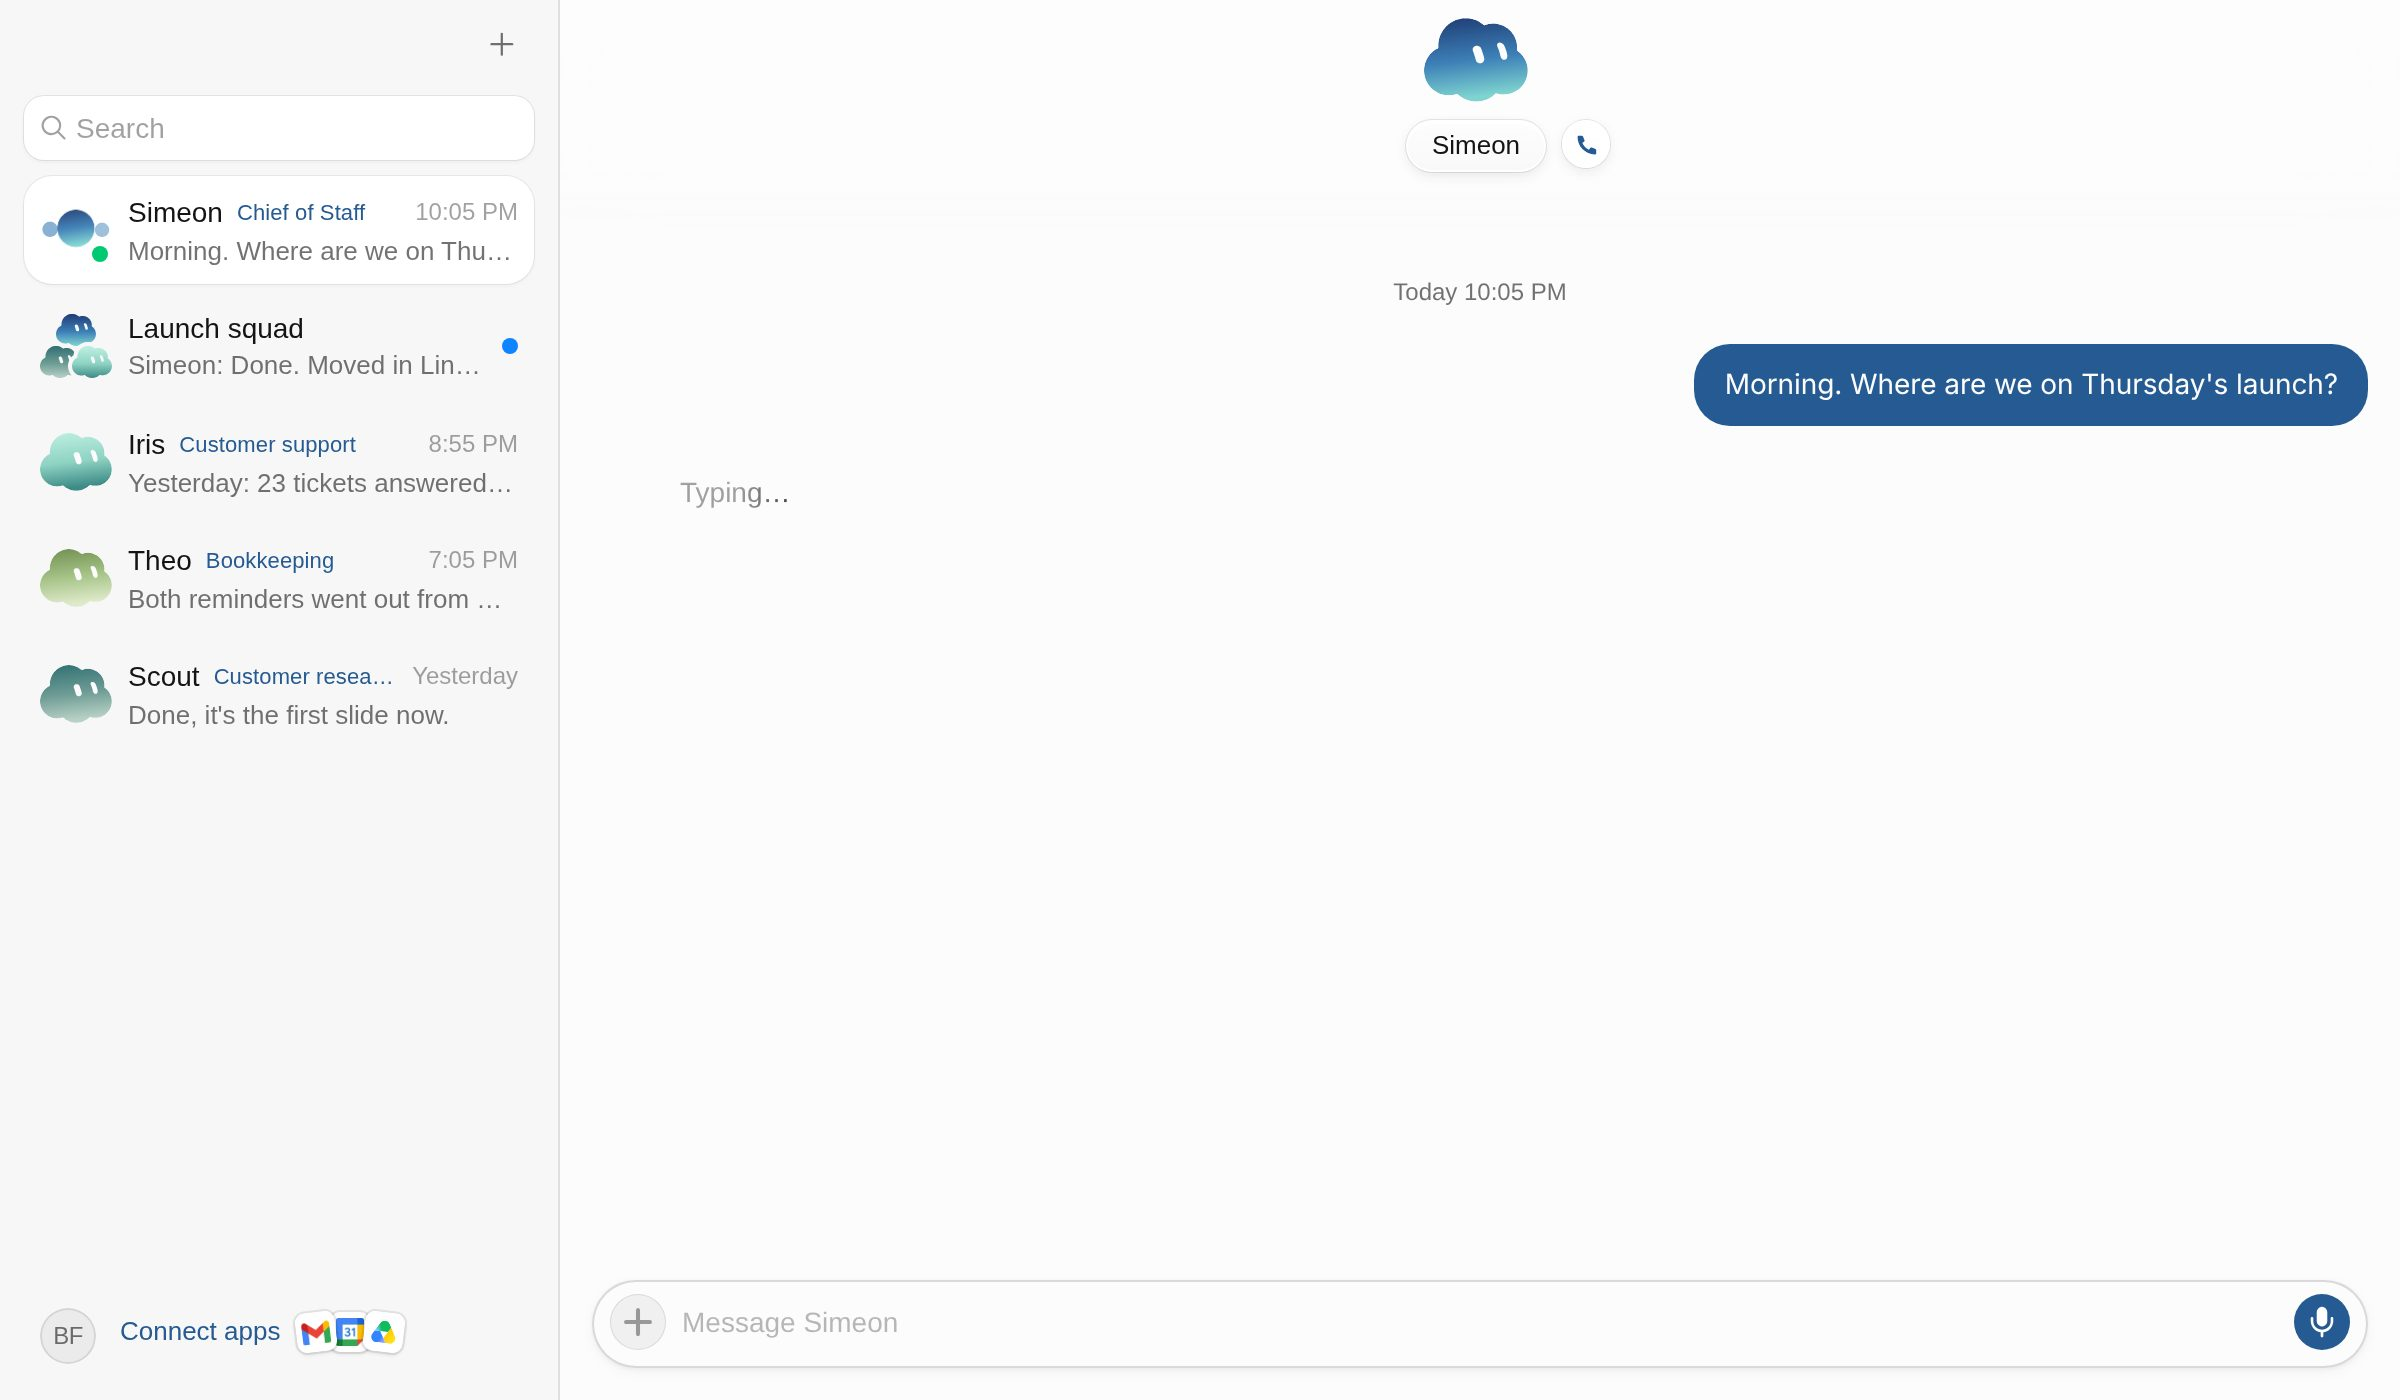
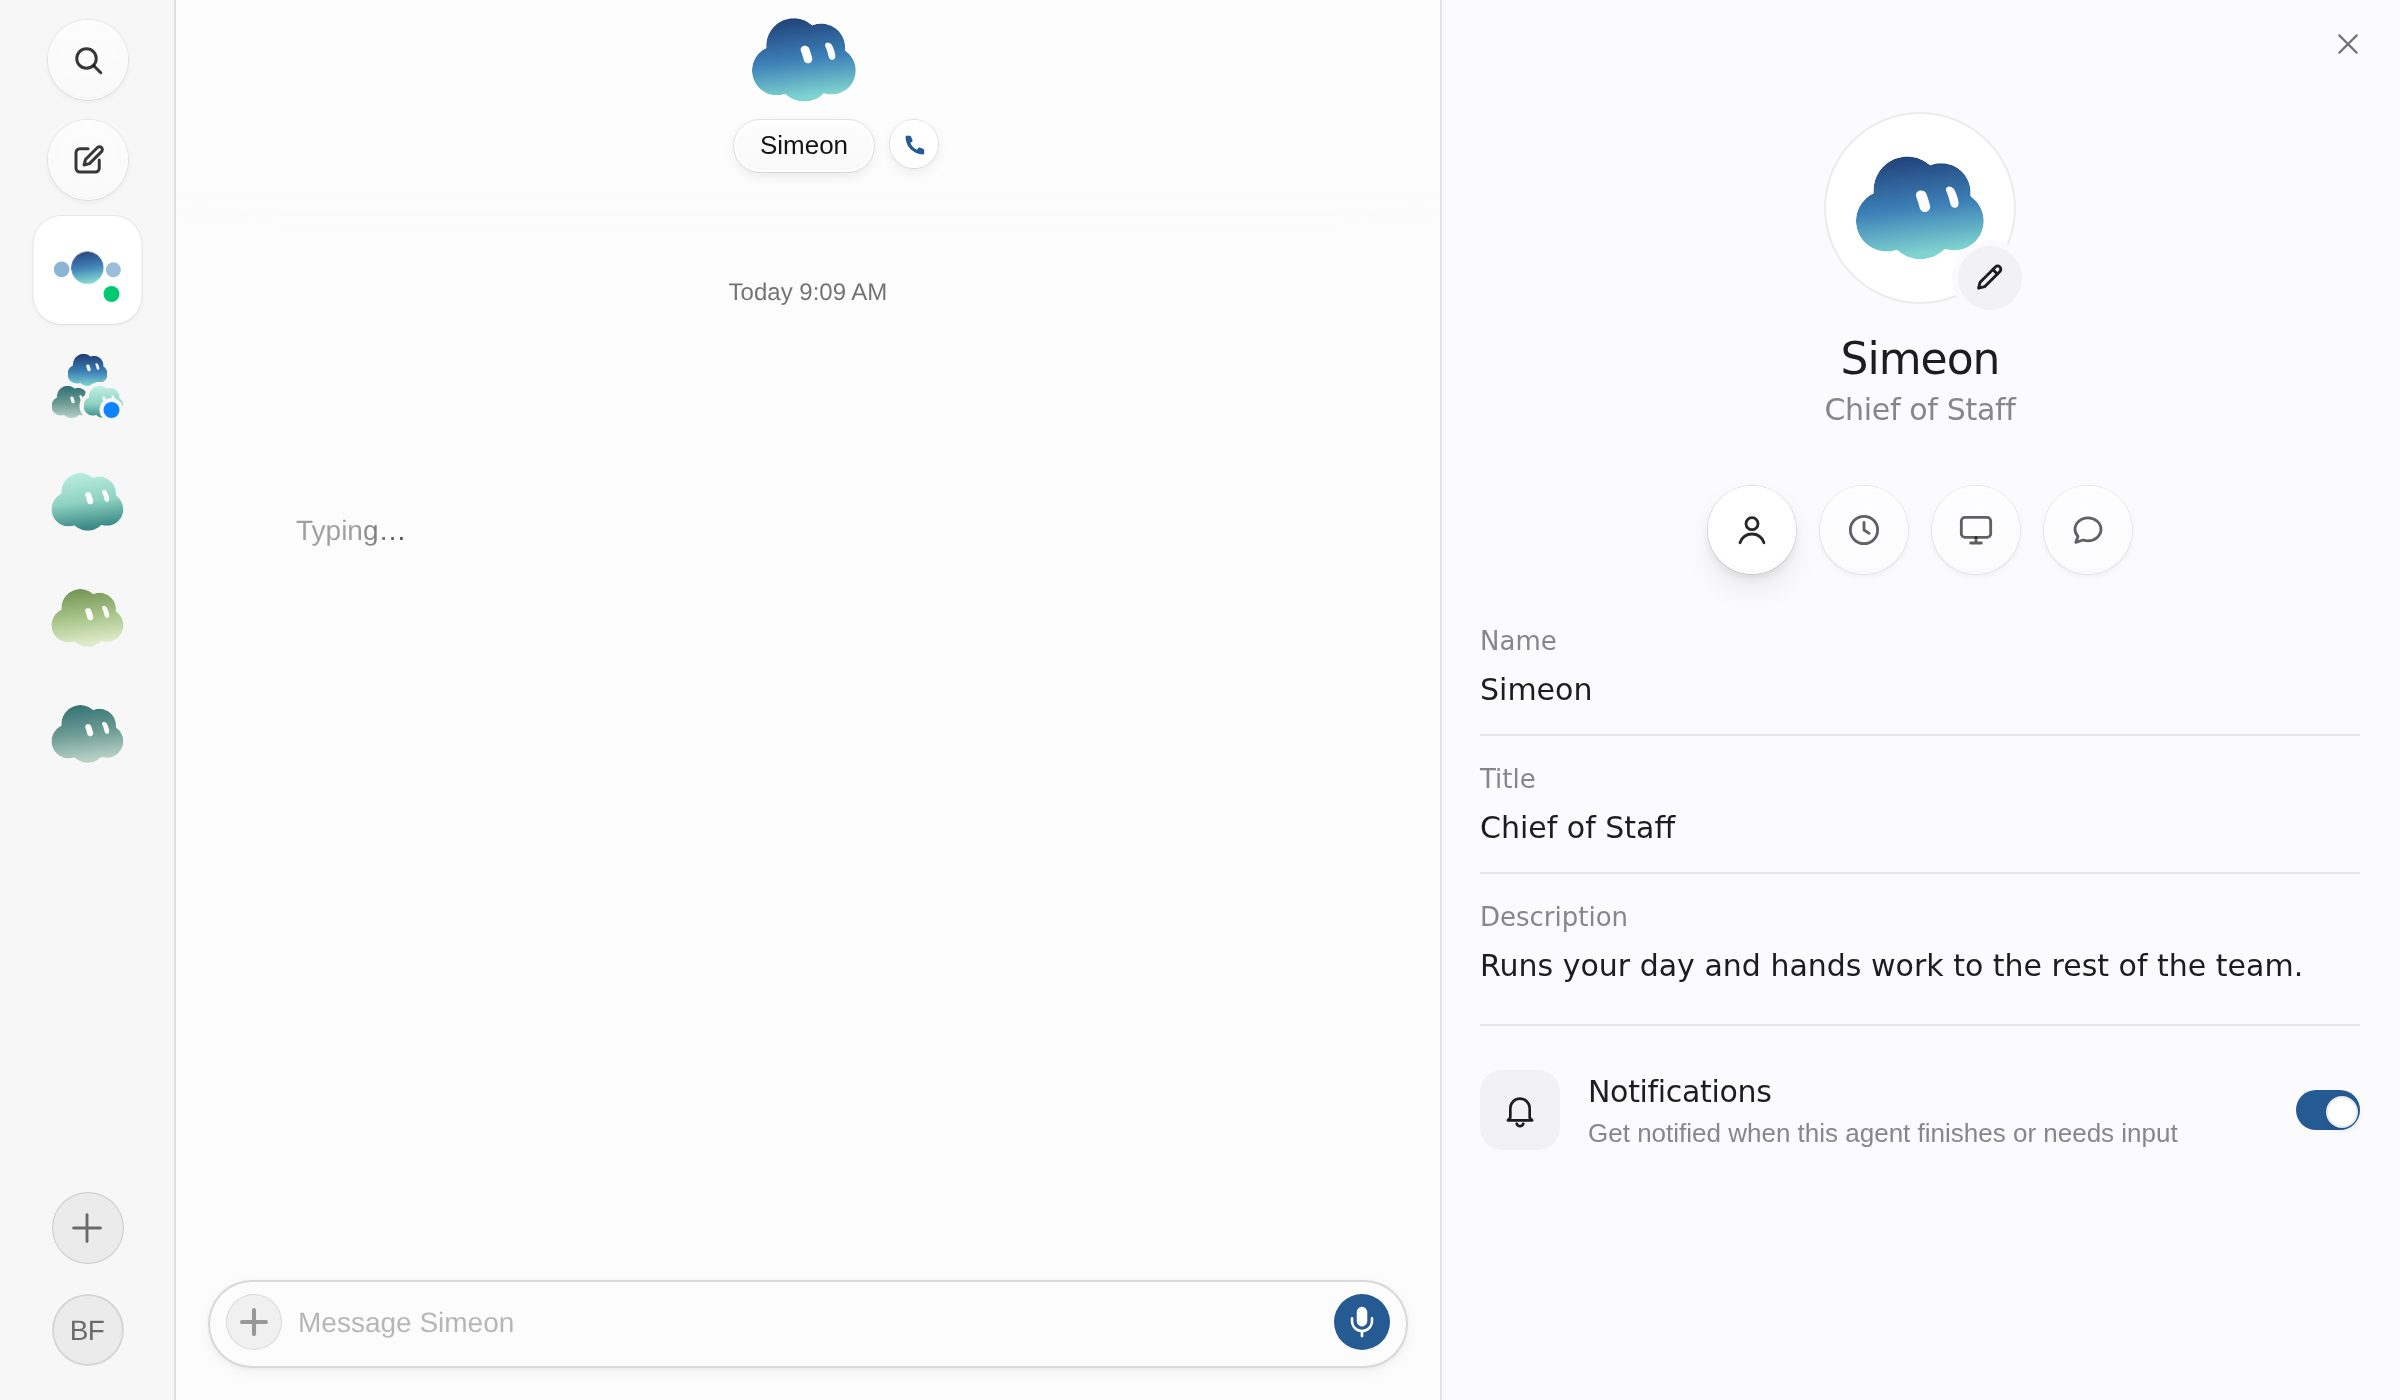
Site: the demo's agent pane opens at its widest from the start, its tabs as glass discs
The founder (5 October 2026): the pane an avatar opens, with profile,
routines, computer and channels, shows from the first frame at 480px,
its four tabs set as the same round glass discs, the chosen one solid.
The sidebar's two buttons stack while the pane narrows it. The hero's
loading stills are redrawn to match.

Claude-Session: https://claude.ai/code/session_01YVdXyUP5gsDTr44eH5Vte9

diff --git a/sites/simeonlabs.com/public/app/c240c441e36a/demo-glass.css b/sites/simeonlabs.com/public/app/c240c441e36a/demo-glass.css
@@ -17,3 +17,22 @@ html body .sand-agents-sidebar__new-actions .sand-kit-icon-button:hover{transfor
 html body .sand-agents-sidebar__new-actions .sand-kit-icon-button:active{transform:scale(.97)!important}
 html body .sand-agents-sidebar__new-actions .sand-kit-icon{width:18px!important;height:18px!important;display:block!important}
 html body .sand-agents-sidebar__new-actions .sand-kit-icon svg{width:18px!important;height:18px!important;fill:none!important;stroke:currentColor!important;stroke-width:2!important;stroke-linecap:round!important;stroke-linejoin:round!important}
+
+/* The agent's pane (the founder, 5 October 2026): open from the start at its widest, and its four tabs, profile,
+   routines, computer and channels, as the same round glass discs; the chosen one solid white in the ink. */
+html body .sand-info-pane{--sand-info-pane-width:480px!important}
+html body .simeon-segments{display:flex!important;justify-content:center!important;gap:12px!important;height:auto!important;padding:0!important;margin:28px 0 26px!important;background:none!important}
+html body .simeon-segments__thumb{display:none!important}
+html body .simeon-segments>*+*::before{display:none!important}
+html body .simeon-segments__item{flex:none!important;width:44px!important;height:44px!important;border-radius:999px!important;color:rgba(0,0,0,.62)!important;
+  background:linear-gradient(180deg,rgba(255,255,255,.62),rgba(255,255,255,.38))!important;
+  -webkit-backdrop-filter:blur(14px) saturate(1.6)!important;backdrop-filter:blur(14px) saturate(1.6)!important;
+  box-shadow:inset 0 1px 0 rgba(255,255,255,.95),inset 0 0 0 .75px rgba(255,255,255,.6),inset 0 -1px 1px rgba(0,0,0,.04),0 0 0 .5px rgba(0,0,0,.07),0 1px 3px rgba(0,0,0,.06)!important;
+  transition:transform .18s ease,background .18s ease,box-shadow .18s ease!important}
+html body .simeon-segments__item:hover{transform:scale(1.04)!important}
+html body .simeon-segments__item[aria-selected="true"]{color:rgba(0,0,0,.85)!important;background:linear-gradient(180deg,#fff,rgba(255,255,255,.9))!important;
+  box-shadow:inset 0 1px 0 #fff,inset 0 0 0 .75px rgba(255,255,255,.9),inset 0 -1px 1px rgba(0,0,0,.05),0 0 0 .5px rgba(0,0,0,.1),0 2px 5px rgba(0,0,0,.08),0 8px 18px -6px rgba(0,0,0,.16)!important}
+html body .simeon-segments__item svg{width:20px!important;height:20px!important;stroke-width:1.7!important}
+/* While the pane is open the sidebar is a narrow rail: the two buttons stack. */
+html body .sand-shell:has(.sand-info-pane[data-open="true"]) .sand-agents-sidebar__header{height:auto!important;padding:10px 0 4px!important;justify-content:center!important}
+html body .sand-shell:has(.sand-info-pane[data-open="true"]) .sand-agents-sidebar__new-actions{flex-direction:column!important;gap:10px!important;margin:0 auto!important}

diff --git a/sites/simeonlabs.com/source/demo-glass.css b/sites/simeonlabs.com/source/demo-glass.css
@@ -17,3 +17,22 @@ html body .sand-agents-sidebar__new-actions .sand-kit-icon-button:hover{transfor
 html body .sand-agents-sidebar__new-actions .sand-kit-icon-button:active{transform:scale(.97)!important}
 html body .sand-agents-sidebar__new-actions .sand-kit-icon{width:18px!important;height:18px!important;display:block!important}
 html body .sand-agents-sidebar__new-actions .sand-kit-icon svg{width:18px!important;height:18px!important;fill:none!important;stroke:currentColor!important;stroke-width:2!important;stroke-linecap:round!important;stroke-linejoin:round!important}
+
+/* The agent's pane (the founder, 5 October 2026): open from the start at its widest, and its four tabs, profile,
+   routines, computer and channels, as the same round glass discs; the chosen one solid white in the ink. */
+html body .sand-info-pane{--sand-info-pane-width:480px!important}
+html body .simeon-segments{display:flex!important;justify-content:center!important;gap:12px!important;height:auto!important;padding:0!important;margin:28px 0 26px!important;background:none!important}
+html body .simeon-segments__thumb{display:none!important}
+html body .simeon-segments>*+*::before{display:none!important}
+html body .simeon-segments__item{flex:none!important;width:44px!important;height:44px!important;border-radius:999px!important;color:rgba(0,0,0,.62)!important;
+  background:linear-gradient(180deg,rgba(255,255,255,.62),rgba(255,255,255,.38))!important;
+  -webkit-backdrop-filter:blur(14px) saturate(1.6)!important;backdrop-filter:blur(14px) saturate(1.6)!important;
+  box-shadow:inset 0 1px 0 rgba(255,255,255,.95),inset 0 0 0 .75px rgba(255,255,255,.6),inset 0 -1px 1px rgba(0,0,0,.04),0 0 0 .5px rgba(0,0,0,.07),0 1px 3px rgba(0,0,0,.06)!important;
+  transition:transform .18s ease,background .18s ease,box-shadow .18s ease!important}
+html body .simeon-segments__item:hover{transform:scale(1.04)!important}
+html body .simeon-segments__item[aria-selected="true"]{color:rgba(0,0,0,.85)!important;background:linear-gradient(180deg,#fff,rgba(255,255,255,.9))!important;
+  box-shadow:inset 0 1px 0 #fff,inset 0 0 0 .75px rgba(255,255,255,.9),inset 0 -1px 1px rgba(0,0,0,.05),0 0 0 .5px rgba(0,0,0,.1),0 2px 5px rgba(0,0,0,.08),0 8px 18px -6px rgba(0,0,0,.16)!important}
+html body .simeon-segments__item svg{width:20px!important;height:20px!important;stroke-width:1.7!important}
+/* While the pane is open the sidebar is a narrow rail: the two buttons stack. */
+html body .sand-shell:has(.sand-info-pane[data-open="true"]) .sand-agents-sidebar__header{height:auto!important;padding:10px 0 4px!important;justify-content:center!important}
+html body .sand-shell:has(.sand-info-pane[data-open="true"]) .sand-agents-sidebar__new-actions{flex-direction:column!important;gap:10px!important;margin:0 auto!important}

diff --git a/sites/simeonlabs.com/public/app/c240c441e36a/demo-glass.js b/sites/simeonlabs.com/public/app/c240c441e36a/demo-glass.js
@@ -17,6 +17,17 @@
       actions.insertBefore(search, plus);
     }
   };
-  put();
-  new MutationObserver(put).observe(document.documentElement, { childList: true, subtree: true });
+  // The agent's pane opens by itself the first time the chat header is up (the founder, 5 October 2026); closing it afterwards sticks.
+  let opened = false;
+  const open = () => {
+    if (opened) return;
+    const identity = document.querySelector('.sand-chat-header__identity');
+    const pane = document.querySelector('.sand-info-pane');
+    if (!identity || !pane || pane.getAttribute('data-open') === 'true') return;
+    opened = true;
+    identity.click();
+  };
+  const tick = () => { put(); open(); };
+  tick();
+  new MutationObserver(tick).observe(document.documentElement, { childList: true, subtree: true });
 })();

diff --git a/sites/simeonlabs.com/source/demo-glass.js b/sites/simeonlabs.com/source/demo-glass.js
@@ -17,6 +17,17 @@
       actions.insertBefore(search, plus);
     }
   };
-  put();
-  new MutationObserver(put).observe(document.documentElement, { childList: true, subtree: true });
+  // The agent's pane opens by itself the first time the chat header is up (the founder, 5 October 2026); closing it afterwards sticks.
+  let opened = false;
+  const open = () => {
+    if (opened) return;
+    const identity = document.querySelector('.sand-chat-header__identity');
+    const pane = document.querySelector('.sand-info-pane');
+    if (!identity || !pane || pane.getAttribute('data-open') === 'true') return;
+    opened = true;
+    identity.click();
+  };
+  const tick = () => { put(); open(); };
+  tick();
+  new MutationObserver(tick).observe(document.documentElement, { childList: true, subtree: true });
 })();
